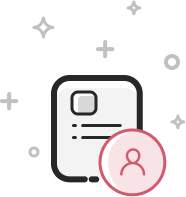
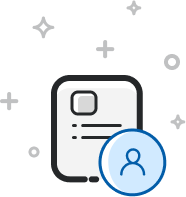
Fixed issues for release

Changed region(s): [[0.5108, 0.6396, 0.914, 1.0]]

diff --git a/lib/features/signup/presentation/screens/profile_setup_screen.dart b/lib/features/signup/presentation/screens/profile_setup_screen.dart
@@ -23,6 +23,7 @@ class ProfileSetupScreen extends StatefulWidget {
 class _ProfileSetupScreenState extends State<ProfileSetupScreen> {
   final GlobalKey<FormState> _formKey = GlobalKey<FormState>();
   final TextEditingController _linkedInController = TextEditingController();
+  final TextEditingController _nameController = TextEditingController();
   ProfileSetupBloc _bloc;
   String _photoUrl;
   List<UserTag> _tags;
@@ -35,6 +36,7 @@ class _ProfileSetupScreenState extends State<ProfileSetupScreen> {
       ..add(const GetUserTagsRequestStarted());
     _name = BlocProvider.of<AuthBloc>(context).state.user.name;
     if (_name.trim().isNotEmpty) {
+      _nameController.text = _name;
       final letter = _name.substring(0, 1).toLowerCase();
       _photoUrl = AppConstants.defaultAvatar[letter];
     } else {
@@ -49,6 +51,7 @@ class _ProfileSetupScreenState extends State<ProfileSetupScreen> {
   @override
   void dispose() {
     _linkedInController.dispose();
+    _nameController.dispose();
     _bloc.close();
     super.dispose();
   }
@@ -57,13 +60,18 @@ class _ProfileSetupScreenState extends State<ProfileSetupScreen> {
   Widget build(BuildContext context) {
     return BlocBuilder<AuthBloc, AuthState>(
       builder: (context, authState) {
+        String heading;
         final user = authState.user;
         final headingStyle = Theme.of(context).textTheme.headline5.copyWith(
               fontSize: 22,
               fontWeight: FontWeight.w500,
             );
-        final heading =
-            "Thanks, ${user.name}.\nHow do we introduce you to others?";
+        if (user.name.trim().isEmpty) {
+          heading = "Thanks, How do we introduce you to others?";
+        } else {
+          heading = "Thanks, ${user.name}.\nHow do we introduce you to others?";
+        }
+
         final next = AppLocalizations.of(context).translate("next");
         return BlocProvider.value(
           value: _bloc,
@@ -153,15 +161,22 @@ class _ProfileSetupScreenState extends State<ProfileSetupScreen> {
         _tags = state.tags;
       });
     } else if (state is PostUserProfileRequestLoaded) {
-      BlocProvider.of<AuthBloc>(context)
-          .add(AuthUserProfileUpdateRecieved(profile: state.profile));
-      ExtendedNavigator.of(context).popAndPush(Routes.phoneVerificationScreen);
+      final bloc = BlocProvider.of<AuthBloc>(context)
+        ..add(AuthUserProfileUpdateRecieved(profile: state.profile));
+      if (bloc.state.user.phoneNumberVerified) {
+        ExtendedNavigator.of(context).popAndPush(Routes.homeScreen(tab: 0));
+      } else {
+        ExtendedNavigator.of(context)
+            .popAndPush(Routes.phoneVerificationScreen);
+      }
     }
   }
 
   Widget _buildProfileForm(BuildContext context, User user) {
     final linkedinLabel =
         AppLocalizations.of(context).translate("linkedin:placeholder");
+    final nameLabel =
+        AppLocalizations.of(context).translate("name:placeholder");
     return Padding(
       padding: const EdgeInsets.symmetric(
           horizontal: AppInsets.xxl, vertical: AppInsets.l),
@@ -169,6 +184,14 @@ class _ProfileSetupScreenState extends State<ProfileSetupScreen> {
         key: _formKey,
         child: Column(
           children: [
+            const SizedBox(height: AppInsets.xxl),
+            BaseFormInput(
+              controller: _nameController,
+              label: nameLabel,
+              autovalidate: false,
+              validator: (value) =>
+                  value.isEmpty ? "This field is required" : null,
+            ),
             const SizedBox(height: AppInsets.xxl),
             BaseFormInput(
               controller: _linkedInController,
@@ -208,7 +231,7 @@ class _ProfileSetupScreenState extends State<ProfileSetupScreen> {
       _bloc.add(PostProfileRequestStarted(
         photoUrl: _photoUrl,
         linkedinUrl: _linkedInController.text,
-        name: _name,
+        name: _nameController.text,
         userTags: _selectedTags,
       ));
     }

diff --git a/lib/features/meeting/presentation/widgets/meeting_tab.dart b/lib/features/meeting/presentation/widgets/meeting_tab.dart
@@ -4,10 +4,11 @@ import 'package:flutter/material.dart';
 import 'package:flutter_bloc/flutter_bloc.dart';
 import 'package:intl/intl.dart';
 import 'package:kiwi/kiwi.dart';
-import 'package:worknetwork/core/analytics/analytics.dart';
-import 'package:worknetwork/core/analytics/anlytics_events.dart';
+import 'package:worknetwork/constants/app_constants.dart';
 
 import '../../../../constants/theme.dart';
+import '../../../../core/analytics/analytics.dart';
+import '../../../../core/analytics/anlytics_events.dart';
 import '../../../../core/widgets/layouts/home_tab_layout.dart';
 import '../../../../core/widgets/screens/models/home_screen_tab_model.dart';
 import '../../../auth/presentation/bloc/auth_bloc.dart';
@@ -63,7 +64,8 @@ class _MeetingTabState extends State<MeetingTab> {
                 _preference.pk == null)
               _buildEmptyState(_meetingConfig)
             else if (_meetingConfig != null && _preference.pk != null)
-              _buildPreferencesCard(context)
+              _buildRegisteredMeetingScreen(context, _meetingConfig)
+            // _buildPreferencesCard(context)
           ],
         );
       },
@@ -80,7 +82,7 @@ class _MeetingTabState extends State<MeetingTab> {
         children: <Widget>[
           const Image(
             width: 140,
-            image: AssetImage('assets/images/img_empty_meetings.png'),
+            image: AppImageAssets.emptyMeeting,
             fit: BoxFit.contain,
           ),
           const SizedBox(height: AppInsets.med),
@@ -102,6 +104,40 @@ class _MeetingTabState extends State<MeetingTab> {
     );
   }
 
+  Widget _buildRegisteredMeetingScreen(
+      BuildContext context, MeetingConfig meeting) {
+    final formatDate = DateFormat('MMMM d');
+    final date = DateTime.parse(meeting.weekStartDate);
+
+    return SliverFillRemaining(
+      child: Column(
+        mainAxisAlignment: MainAxisAlignment.center,
+        children: <Widget>[
+          const Image(
+            width: 140,
+            image: AppImageAssets.registeredMeeting,
+            fit: BoxFit.contain,
+          ),
+          const SizedBox(height: AppInsets.med),
+          SizedBox(
+            width: 320,
+            child: Text(
+              'You have signed up for a meeting for the week of ${formatDate.format(date)}. Click here to update your preferences.',
+              textAlign: TextAlign.center,
+              style: Theme.of(context).textTheme.bodyText2,
+            ),
+          ),
+          const SizedBox(height: AppInsets.med),
+          RaisedButton(
+            onPressed: _onPressRegisterMeets,
+            child: const Text('Update'),
+          )
+        ],
+      ),
+    );
+  }
+
+  // ignore: unused_element
   Widget _buildPreferencesCard(BuildContext context) {
     return SliverPadding(
       padding: const EdgeInsets.symmetric(horizontal: AppInsets.med),

diff --git a/lib/core/widgets/screens/home_screen.dart b/lib/core/widgets/screens/home_screen.dart
@@ -15,7 +15,6 @@ import '../../../features/chat_inbox/presentation/widgets/inbox_tab.dart';
 import '../../../features/community/presentation/bloc/community/community_bloc.dart';
 import '../../../features/meeting/presentation/widgets/meeting_tab.dart';
 import '../../../features/videos/presentation/bloc/video/video_bloc.dart';
-import '../../../features/videos/presentation/widgets/videos_tab.dart';
 import '../../../routes.gr.dart';
 import '../../../utils/app_localizations.dart';
 import '../layouts/home_screen_layout.dart';
@@ -39,11 +38,11 @@ class _HomeScreenState extends State<HomeScreen> {
   int _currentTab = 0;
 
   final List<HomeScreenTab> _screens = [
-    CommunityTab(),
     MeetingTab(),
+    CommunityTab(),
     InboxTab(),
     ArticlesTab(),
-    VideoTab()
+    // VideoTab()
   ];
 
   @override
@@ -98,16 +97,16 @@ class _HomeScreenState extends State<HomeScreen> {
     final String meetsLabel = translate("home_tab:meets");
     final String inboxLabel = translate("home_tab:inbox");
     final String articlesLabel = translate("home_tab:articles");
-    final String videosLabel = translate("home_tab:videos");
+    // final String videosLabel = translate("home_tab:videos");
 
     return [
       BottomNavigationBarItem(
-        icon: const Icon(WorkNetIcons.community),
-        title: Text(communityLabel),
-      ),
-      BottomNavigationBarItem(
         icon: const Icon(WorkNetIcons.people),
         title: Text(meetsLabel),
+      ),
+      BottomNavigationBarItem(
+        icon: const Icon(WorkNetIcons.community),
+        title: Text(communityLabel),
       ),
       BottomNavigationBarItem(
         icon: const Icon(WorkNetIcons.inbox),
@@ -117,10 +116,10 @@ class _HomeScreenState extends State<HomeScreen> {
         icon: const Icon(WorkNetIcons.articles),
         title: Text(articlesLabel),
       ),
-      BottomNavigationBarItem(
-        icon: const Icon(WorkNetIcons.videos),
-        title: Text(videosLabel),
-      ),
+      // BottomNavigationBarItem(
+      //   icon: const Icon(WorkNetIcons.videos),
+      //   title: Text(videosLabel),
+      // ),
     ];
   }
 

diff --git a/lib/core/widgets/layouts/home_screen_layout.dart b/lib/core/widgets/layouts/home_screen_layout.dart
@@ -1,6 +1,5 @@
 import 'package:flutter/material.dart';
 
-import '../../../constants/work_net_icons_icons.dart';
 import '../../../ui/components/app_drawer/app_drawer.dart';
 import '../../../utils/app_localizations.dart';
 import '../screens/models/home_screen_tab_model.dart';
@@ -42,7 +41,8 @@ class HomeScreenLayout extends StatelessWidget {
           canvasColor: Colors.white,
         ),
         child: BottomNavigationBar(
-          items: _getNavItems(context),
+          type: BottomNavigationBarType.fixed,
+          items: navItems,
           currentIndex: currentTabIndex,
           onTap: onTabTapped,
           unselectedItemColor: Colors.grey[400],
@@ -52,37 +52,5 @@ class HomeScreenLayout extends StatelessWidget {
       ),
       floatingActionButton: getFabButton(currentTabIndex),
     );
-  }
-
-  List<BottomNavigationBarItem> _getNavItems(BuildContext context) {
-    final translate = AppLocalizations.of(context).translate;
-    final String communityLabel = translate("home_tab:community");
-    final String meetsLabel = translate("home_tab:meets");
-    final String inboxLabel = translate("home_tab:inbox");
-    final String articlesLabel = translate("home_tab:articles");
-    final String videosLabel = translate("home_tab:videos");
-
-    return [
-      BottomNavigationBarItem(
-        icon: const Icon(WorkNetIcons.community),
-        title: Text(communityLabel),
-      ),
-      BottomNavigationBarItem(
-        icon: const Icon(WorkNetIcons.people),
-        title: Text(meetsLabel),
-      ),
-      BottomNavigationBarItem(
-        icon: const Icon(WorkNetIcons.inbox),
-        title: Text(inboxLabel),
-      ),
-      BottomNavigationBarItem(
-        icon: const Icon(WorkNetIcons.articles),
-        title: Text(articlesLabel),
-      ),
-      BottomNavigationBarItem(
-        icon: const Icon(WorkNetIcons.videos),
-        title: Text(videosLabel),
-      ),
-    ];
   }
 }

diff --git a/lib/features/signup/presentation/screens/objectives_screen.dart b/lib/features/signup/presentation/screens/objectives_screen.dart
@@ -41,11 +41,16 @@ class _ObjectivesScreenState extends State<ObjectivesScreen> {
   Widget build(BuildContext context) {
     return BlocBuilder<AuthBloc, AuthState>(
       builder: (context, authState) {
+        String heading;
         final next =
             AppLocalizations.of(context).translate("next").toUpperCase();
         final user = authState.user;
-        final heading =
-            "${user.name}, who would you like us to introduce you to?";
+        if (user.name.trim().isEmpty) {
+          heading = "Hey, who would you like us to introduce you to?";
+        } else {
+          heading = "${user.name}, who would you like us to introduce you to?";
+        }
+
         final headingStyle = Theme.of(context).textTheme.headline5.copyWith(
               fontSize: 22,
               fontWeight: FontWeight.w500,

diff --git a/lib/constants/theme.dart b/lib/constants/theme.dart
@@ -4,7 +4,7 @@ import 'package:worknetwork/utils/create_material_color.dart';
 
 mixin AppTheme {
   static const Size appBarHeight = Size.fromHeight(48);
-  static const Color primaryColor = Color(0xFFD3596C);
+  static const Color primaryColor = Color(0xFF025DA9);
   static final TextTheme primaryTextTheme = Typography.material2018().black;
   static final MaterialColor primarySwatch = createMaterialColor(primaryColor);
   static const Color blueAccent = Color(0xFF7AB9DE);

diff --git a/lib/constants/app_constants.dart b/lib/constants/app_constants.dart
@@ -74,6 +74,10 @@ class AppImageAssets {
       AssetImage("assets/images/img_article_placeholder.png");
   static const videoPlaceholder =
       AssetImage("assets/images/ic_video_placeholder.png");
+  static const emptyMeeting =
+      AssetImage("assets/images/img_empty_meetings.png");
+  static const registeredMeeting =
+      AssetImage("assets/images/img_meeting_registered.png");
 }
 
 class AppSvgAssets {

diff --git a/lib/features/chat_inbox/presentation/screens/chat_search_screen.dart b/lib/features/chat_inbox/presentation/screens/chat_search_screen.dart
@@ -36,6 +36,7 @@ class _ChatSearchScreenState extends State<ChatSearchScreen> {
 
   @override
   void dispose() {
+    _debounce?.cancel();
     _chatSearchBloc.close();
     _searchInputController.dispose();
     super.dispose();
